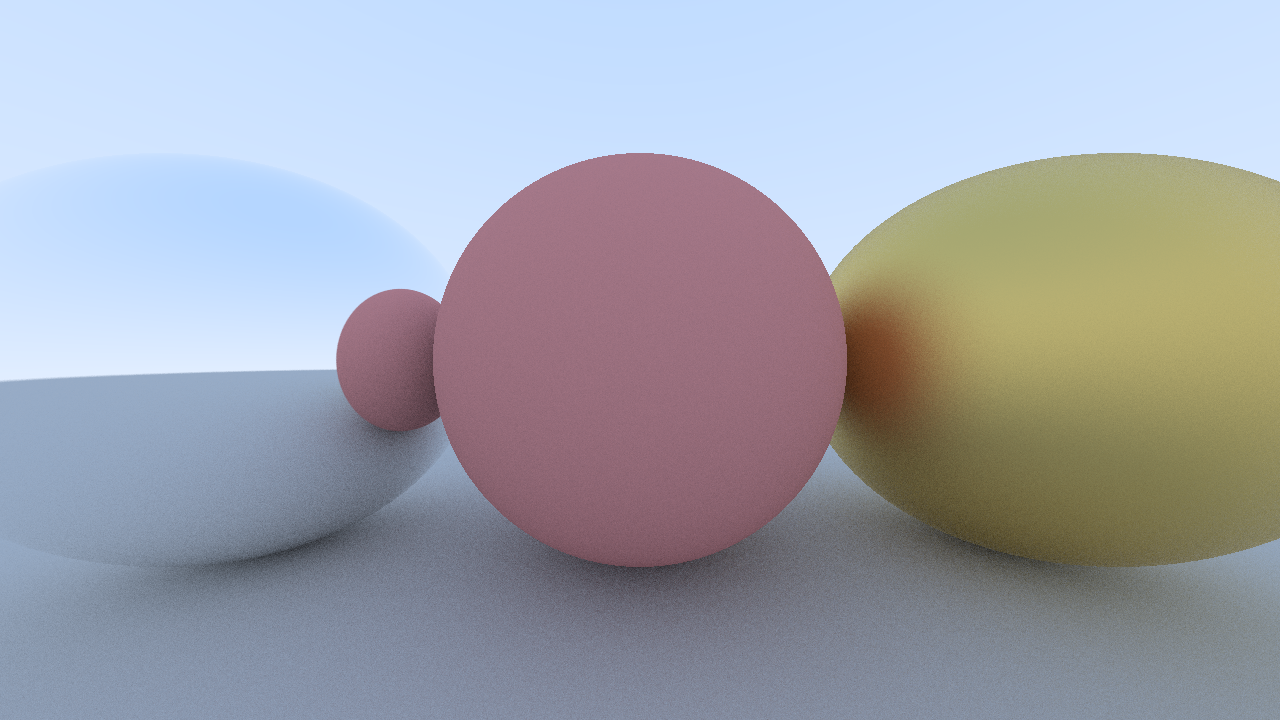
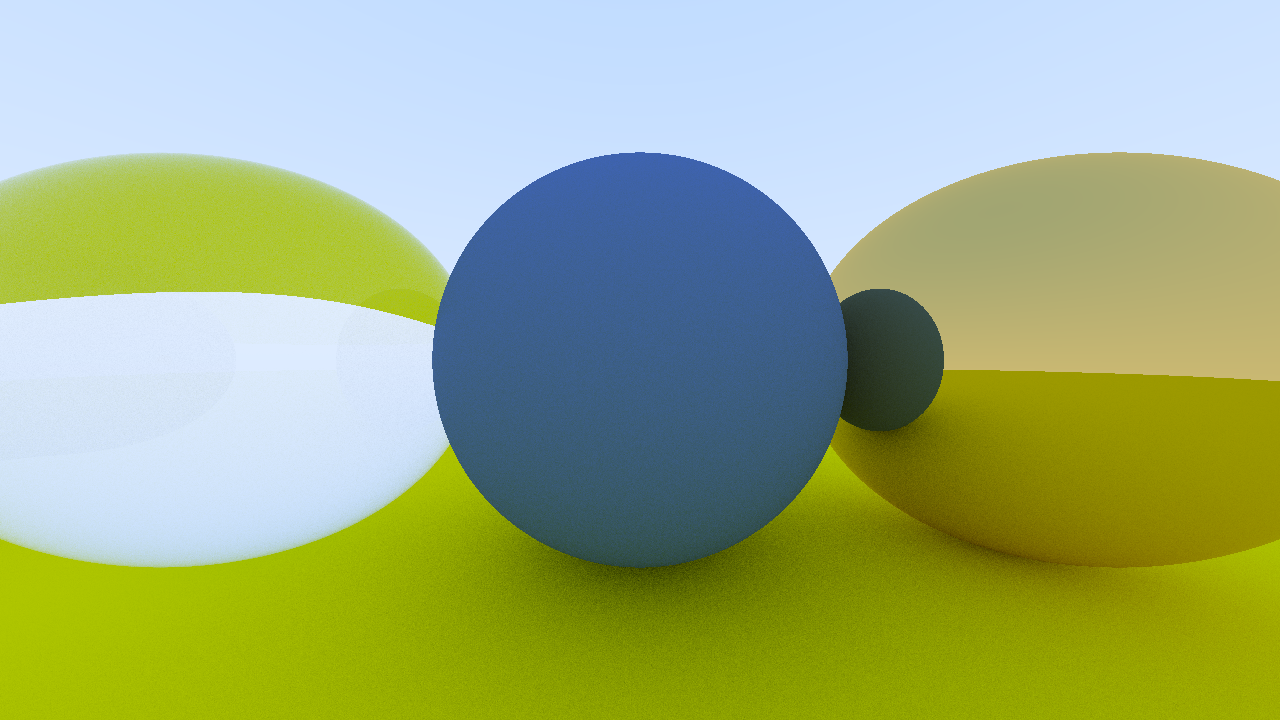
Update Ch09_Dielectrics

diff --git a/RayTracingInOneWeekEndCUDA/Sphere.h b/RayTracingInOneWeekEndCUDA/Sphere.h
@@ -11,6 +11,7 @@ public:
         center = inCenter;
         radius = inRadius;
         material = inMaterial;
+        bShading = true;
     }
 
     void uninitailize() {
@@ -20,30 +21,25 @@ public:
     }
 
     CUDA_DEVICE inline CUDA_DEVICE bool hit(const Ray& ray, Float tMin, Float tMax, HitResult& hitResult) const {
-        //auto oc = ray.origin - center;
-        //auto a = dot(ray.direction, ray.direction);
-        //auto b = 2.0f * dot(oc, ray.direction);
-        //auto c = dot(oc, oc) - radius * radius;
-
-        //auto discriminant = b * b - 4 * a * c;
         auto oc = ray.origin - center;
         auto a = dot(ray.direction, ray.direction);
         auto halfB = dot(oc, ray.direction);
         auto c = dot(oc, oc) - radius * radius;
         auto discriminant = halfB * halfB - a * c;
-
-        auto bHit = (discriminant > Math::epsilon);
+        // Cant's use Math::epsilon(0.001f) for comparison here
+        // Because it's not small enough(Not precise enough)
+        auto bHit = (discriminant > 0.0f);
 
         if (!bHit) {
             return false;
         }
 
-        auto d = sqrt(discriminant);
+        auto sqrtd = sqrt(discriminant);
+        Float root = (-halfB - sqrtd) / a;
 
-        Float root = (-halfB - d) / a;
-
+        // Find the nearest root that lies in the acceptable range.
         if (root < tMin || tMax < root) {
-            root = (-halfB + d) / a;
+            root = (-halfB + sqrtd) / a;
             if (root < tMin || tMax < root) {
                 return false;
             }
@@ -61,4 +57,5 @@ public:
     Float3 center;
     Float radius;
     Material* material;
+    bool bShading;
 };

diff --git a/RayTracingInOneWeekEndCUDA/Material.h b/RayTracingInOneWeekEndCUDA/Material.h
@@ -53,3 +53,43 @@ public:
     Float3 albedo;
     Float fuzz;
 };
+
+class Dieletric : public Material {
+public:
+    CUDA_DEVICE Dieletric(Float inIndexOfRefraction)
+    : indexOfRefraction(inIndexOfRefraction) {
+    }
+
+    CUDA_DEVICE bool scatter(const Ray& inRay, const HitResult& hitResult, Float3& attenuation, Ray& scattered, curandState* randState) const override {
+        attenuation = make_float3(1.0f, 1.0f, 1.0f);
+        auto refractionRatio = hitResult.bFrontFace ? (1.0f / indexOfRefraction) : indexOfRefraction;
+
+        auto unitDirection = normalize(inRay.direction);
+        auto cosTheta = fmin(dot(-unitDirection, hitResult.normal), 1.0f);
+        auto sinTheta = sqrt(1.0f - cosTheta * cosTheta);
+
+        bool bCannotRefract = refractionRatio * sinTheta > 1.0f;
+        Float3 direction;
+
+        if (bCannotRefract || reflectance(cosTheta, refractionRatio) > Utils::random(randState)) {
+            direction = Utils::reflect(unitDirection, hitResult.normal);
+        }
+        else {
+            direction = Utils::refract(unitDirection, hitResult.normal, refractionRatio);
+        }
+
+        scattered = Ray(hitResult.position, normalize(direction));
+
+        return true;
+    }
+
+    Float indexOfRefraction;
+
+private:
+    CUDA_DEVICE static Float reflectance(Float cosine, Float refractionIndex) {
+        // Use Schlick's approximation for reflectance.
+        auto r0 = (1.0f - refractionIndex) / (1.0f + refractionIndex);
+        r0 = r0 * r0;
+        return r0 + (1.0f - r0) * pow((1.0f - cosine), 5.0f);
+    }
+};

diff --git a/RayTracingInOneWeekEndCUDA/Utils.h b/RayTracingInOneWeekEndCUDA/Utils.h
@@ -82,6 +82,13 @@ namespace Utils {
         return v - 2.0f * dot(v, n) * n;
     }
 
+    CUDA_DEVICE inline Float3 refract(const Float3& uv, const Float3& n, Float etaiOverEtat) {
+        auto cosTheta = fmin(dot(-uv, n), 1.0f);
+        auto rOutPerp = etaiOverEtat * (uv + cosTheta * n);
+        auto rOutParallel = -sqrt(fabs(1.0f - lengthSquared(rOutPerp))) * n;
+        return rOutPerp + rOutParallel;
+    }
+
     void openImage(const std::wstring& path);
 
     inline void gpuAssert(cudaError_t code, const char* file, int line, bool abort = true) {

diff --git a/RayTracingInOneWeekEndCUDA/CUDA.h b/RayTracingInOneWeekEndCUDA/CUDA.h
@@ -25,4 +25,5 @@ using Float4 = float4;
 #define tan tanf
 #define floor floorf
 #define rsqrt rsqrtf
+#define pow powf
 #endif
